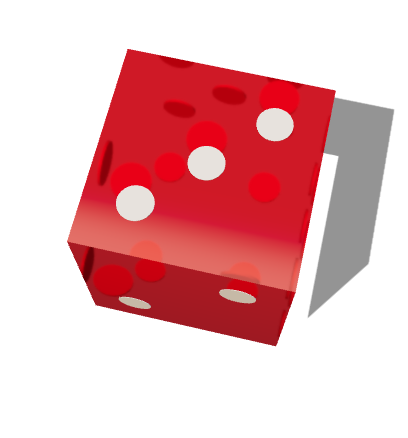
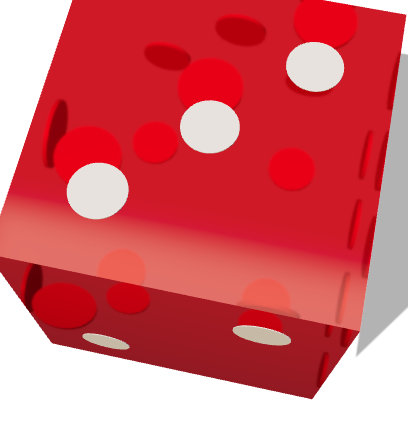
Tune the realistic dice renders and clear the duplicate-media warning
Tighter die framing and a softer shadow. The receipt's right half uses
a fragment URL, so lint no longer flags the two receipt images as
duplicates. Lint is 0/0. HANDOFF.md is updated.

Claude-Session: https://claude.ai/code/session_01V1tqCm3WQBjokw5UB1W8XZ

diff --git a/commercial/dice-explainer/tools/props.html b/commercial/dice-explainer/tools/props.html
@@ -33,11 +33,11 @@ function stage(w, h, camPos, look) {
   const scene = new T.Scene(); scene.environment = env;
   const cam = new T.PerspectiveCamera(30, w / h, 0.05, 50); cam.position.set(...camPos); cam.lookAt(...look);
   const key = new T.DirectionalLight("#ffe6c8", 2.6); key.position.set(-2.5, 6, 3.5); key.castShadow = true;
-  key.shadow.mapSize.set(2048, 2048); key.shadow.radius = 8; key.shadow.bias = -0.0008; key.shadow.normalBias = 0.02; key.shadow.camera.left = -3; key.shadow.camera.right = 3; key.shadow.camera.top = 3; key.shadow.camera.bottom = -3;
+  key.shadow.mapSize.set(2048, 2048); key.shadow.radius = 18; key.shadow.blurSamples = 24; key.shadow.bias = -0.0008; key.shadow.normalBias = 0.02; key.shadow.camera.left = -3; key.shadow.camera.right = 3; key.shadow.camera.top = 3; key.shadow.camera.bottom = -3;
   scene.add(key);
   const rim = new T.DirectionalLight("#b8ccff", 1.2); rim.position.set(3, 2, -4); scene.add(rim);
   scene.add(new T.HemisphereLight("#fff0dd", "#3a2418", 0.5));
-  const catcher = new T.Mesh(new T.PlaneGeometry(20, 20), new T.ShadowMaterial({ opacity: 0.42 })); catcher.rotation.x = -Math.PI / 2; catcher.receiveShadow = true; scene.add(catcher);
+  const catcher = new T.Mesh(new T.PlaneGeometry(20, 20), new T.ShadowMaterial({ opacity: 0.3 })); catcher.rotation.x = -Math.PI / 2; catcher.receiveShadow = true; scene.add(catcher);
   return { scene, cam };
 }
 
@@ -71,7 +71,7 @@ function die() {
 const UP = { 1: [0, 0, 0], 6: [Math.PI, 0, 0], 2: [Math.PI / 2, 0, 0], 5: [-Math.PI / 2, 0, 0], 3: [0, 0, Math.PI / 2], 4: [0, 0, -Math.PI / 2] };
 
 window.renderDie = (face, tumble = null) => {
-  const { scene, cam } = stage(408, 438, [0.35, 4.3, 1.55], [0, 0.45, 0.05]);
+  const { scene, cam } = stage(408, 438, [0.22, 3.05, 1.1], [0, 0.5, 0.08]);
   const d = die(); d.position.y = 0.5;
   const [x, y, z] = UP[face]; d.rotation.set(x, y, z);
   if (tumble) { d.rotation.x += tumble[0]; d.rotation.y += tumble[1]; d.rotation.z += tumble[2]; d.position.y = 0.72; }

diff --git a/commercial/dice-explainer/compositions/s7.html b/commercial/dice-explainer/compositions/s7.html
@@ -28,7 +28,7 @@
 <div class="big foil" id="s7-pct" style="top:540px;font-size:300px"><span class="ltr">−50%*</span></div>
 <div class="sub" style="top:852px;font-size:58px">על כל החשבון של השולחן</div>
 <div id="s7-rcL" style="position:absolute;left:290px;top:960px;width:500px;height:360px;clip-path:polygon(0 0, 52% 0, 46% 100%, 0 100%)"><img src="assets/img/receipt.png" alt="" style="position:absolute;left:-60px;top:-110px;width:620px;height:auto"></div>
-<div id="s7-rcR" style="position:absolute;left:290px;top:960px;width:500px;height:360px;clip-path:polygon(52% 0, 100% 0, 100% 100%, 46% 100%)"><img src="assets/img/receipt.png" alt="" style="position:absolute;left:-60px;top:-110px;width:620px;height:auto"></div>
+<div id="s7-rcR" style="position:absolute;left:290px;top:960px;width:500px;height:360px;clip-path:polygon(52% 0, 100% 0, 100% 100%, 46% 100%)"><img src="assets/img/receipt.png#right-half" alt="" style="position:absolute;left:-60px;top:-110px;width:620px;height:auto"></div>
 <img id="s7-knife" class="art" src="assets/img/knife.png" alt="" style="left:560px;top:880px;width:520px;height:auto">
 
   </div>

diff --git a/commercial/dice-explainer/build.py b/commercial/dice-explainer/build.py
@@ -316,7 +316,7 @@ card("s7", 31.25, 5.0, f"""
 <div class="big foil" id="s7-pct" style="top:540px;font-size:300px"><span class="ltr">−50%*</span></div>
 <div class="sub" style="top:852px;font-size:58px">על כל החשבון של השולחן</div>
 <div id="s7-rcL" style="position:absolute;left:290px;top:960px;width:500px;height:360px;clip-path:polygon(0 0, 52% 0, 46% 100%, 0 100%)">{RECEIPT}</div>
-<div id="s7-rcR" style="position:absolute;left:290px;top:960px;width:500px;height:360px;clip-path:polygon(52% 0, 100% 0, 100% 100%, 46% 100%)">{RECEIPT}</div>
+<div id="s7-rcR" style="position:absolute;left:290px;top:960px;width:500px;height:360px;clip-path:polygon(52% 0, 100% 0, 100% 100%, 46% 100%)">{RECEIPT.replace('receipt.png', 'receipt.png#right-half')}</div>
 <img id="s7-knife" class="art" src="assets/img/knife.png" alt="" style="left:560px;top:880px;width:520px;height:auto">
 """, js="""tl.set("#s7-rcL", { x: -34, y: 10, rotation: -5 }, 0); tl.set("#s7-rcR", { x: 34, y: -6, rotation: 4 }, 0); tl.set("#s7-knife", { rotation: -8 }, 0); tl.set("#s7-dA", { rotation: -8 }, 0); tl.set("#s7-dB", { rotation: 7 }, 0);""")
 

diff --git a/commercial/dice-explainer/HANDOFF.md b/commercial/dice-explainer/HANDOFF.md
@@ -1,6 +1,6 @@
 # HANDOFF: Yoko Ono dice-game video
 
-Updated after every step. Last update: stage 5b props committed (`bc3685b`), not yet snapshot-reviewed.
+Updated after every step. Last update: stage 5b step 1 done (props reviewed and tuned). Next: a realistic hand.
 
 ## What this is
 An animated 9:16 Hebrew ad (1080×1920, 24 fps, about 68 s) for the dice game at **Yoko Ono Asian Kitchen** (Ahuza 124, Ra'anana).
@@ -78,11 +78,14 @@ ffmpeg -i renders/x.mp4 -c:v libx264 -crf 27 -c:a aac -b:a 128k -movflags +fasts
    - **5b, realistic props (free, in progress).**
      - Rendered: translucent dice (6 faces + 12 rolls), receipt, coin, knife.
      - DiceKit now uses the dice images. Cards 7 (receipt, knife) and 10 (coins) use the renders.
-     - **Committed in `bc3685b`.** Lint: 0 errors, 1 warning, not yet looked at.
-     - **Not yet snapshot-reviewed.**
+     - **Reviewed and tuned:**
+       - tighter die framing, soft shadow (radius 18);
+       - the receipt's right half uses `receipt.png#right-half` to clear lint's duplicate-media warning.
+     - Lint 0/0. Snapshots look right on s1, s2, s3b, s4, s7, s8, s11 and s12.
 
 ## Next steps
-1. Snapshot the props cards (s3b ≈ 21 s, s4 ≈ 25 s, s7 ≈ 43 s, s8 ≈ 48 s, s10 ≈ 55 s, s12 ≈ 64 s). Check that the dice and receipt look right, then run `lint`/`check`. Commit and push.
+1. ~~Snapshot and tune the props~~ (done).
+1b. **Now:** a realistic hand in `tools/props.html`, rendered with three.js in 3 poses (fist, release, open). Navy blazer sleeve and a white shirt cuff, to match the man in img 1. It goes into `assets/img/hand-*.png`, and `DiceKit.pose` + `hand_svg` in `build.py` switch to it.
 2. When the designer subagent reports, show the user the **exact cost table** and wait for "yes". Then generate **sample stills only** (F1 and F2) and wait for approval. Then F3, F4 and the clips, each priced and approved separately.
 3. Integrate the clips: a `<video muted>` sub-composition replaces `a3d`; the bubbles stay as overlays; the cut to card 1 still goes through the hand.
 4. Make the hand and the characters in cards 1, 5, 6a, 6b, 11 and 12 match the new realistic style.
